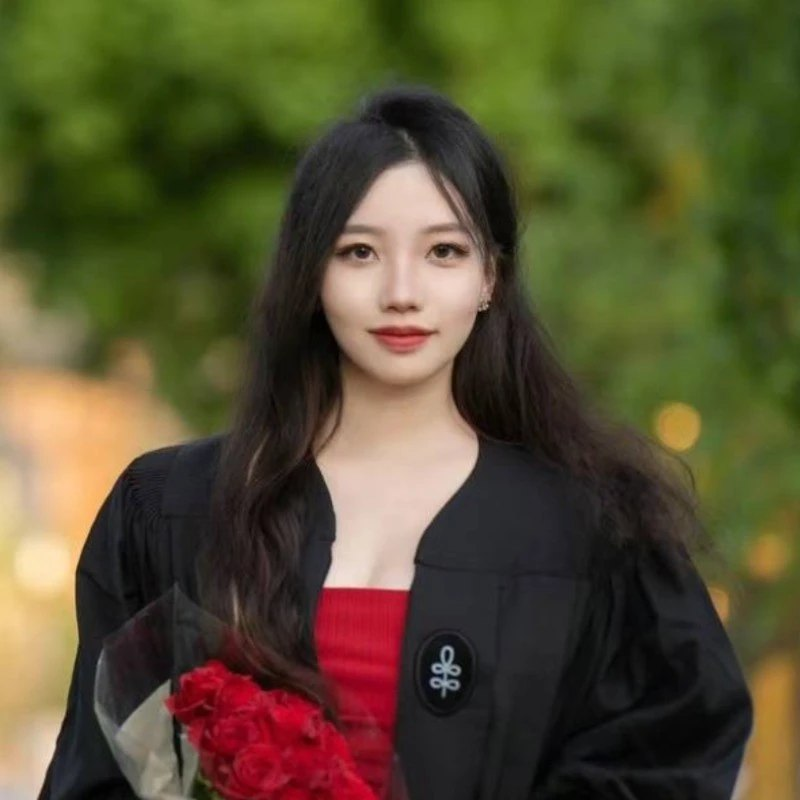
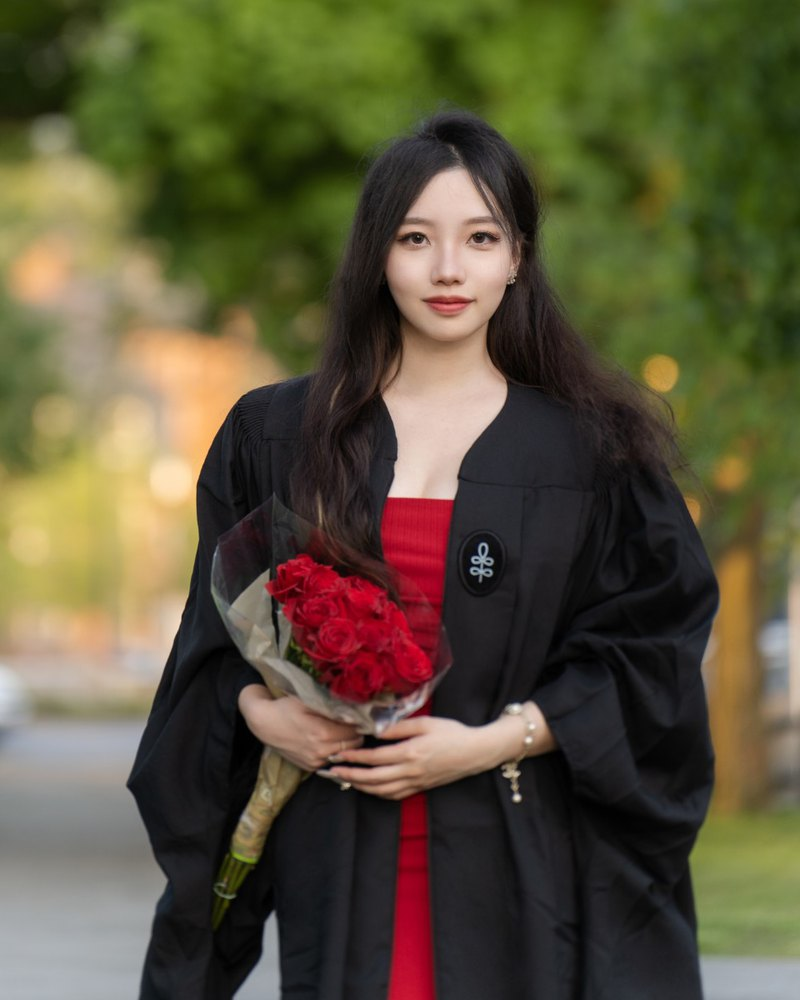
New portrait, smaller opening line, Ideas & Research redesign
- About: new graduation photo, cropped 4:5 for wide screens with a square
  face crop (portrait-face.jpg) for the phone circle; smaller opening line.
- Ideas & Research: themes in a sticky sidebar with counts; the selected
  theme's works on the right, each with its year (from the timeline data),
  tags as chips instead of dotted text, co-author and context notes.
- Paper pages: tags as chips.

diff --git a/assets/css/main.css b/assets/css/main.css
@@ -131,11 +131,11 @@ ul, ol { margin: 0; padding: 0; list-style: none; }
   grid-column: 2; grid-row: 1; display: block; overflow: hidden; aspect-ratio: 4 / 5;
   border-radius: 6px; box-shadow: var(--shadow); background: var(--paper-3);
 }
-.portrait img { width: 100%; height: 100%; object-fit: cover; object-position: 50% 28%; }
+.portrait img { width: 100%; height: 100%; object-fit: cover; object-position: 50% 30%; }
 .opening {
-  font-size: clamp(1.65rem, 1.05rem + 2.2vw, 2.85rem);
-  line-height: 1.16; letter-spacing: -0.012em; font-weight: 350;
-  max-width: 22em; text-wrap: balance;
+  font-size: clamp(1.32rem, 0.98rem + 1.25vw, 2rem);
+  line-height: 1.25; letter-spacing: -0.008em; font-weight: 380;
+  max-width: 28em; text-wrap: balance;
 }
 .about-facts {
   display: grid; grid-template-columns: repeat(2, minmax(0, 1fr)); gap: clamp(20px, 3.4vw, 48px);
@@ -239,49 +239,66 @@ mark.hl {
 }
 
 /* ---------- research index ----------
-   The six themes act as tabs (assets/js/site.js): one theme shows at a time,
-   so the page stays about one screen. Without JS every theme is listed. */
-.theme-index { margin-top: clamp(18px, 2.4vw, 28px); border-top: 1px solid var(--rule-strong); }
-.theme-index ol { display: grid; grid-template-columns: repeat(3, minmax(0, 1fr)); column-gap: 20px; }
-.theme-index a {
-  display: flex; gap: 12px; align-items: baseline; padding: 10px 12px 10px 10px; border-bottom: 1px solid var(--rule);
-  text-decoration: none; font-size: 0.86rem; line-height: 1.35; color: var(--ink-2); transition: color .2s, background-color .2s;
+   Themes in a sticky sidebar (tabs via assets/js/site.js); the selected theme's
+   works on the right, each with its year. Without JS every theme is listed. */
+.research-layout {
+  display: grid; grid-template-columns: minmax(210px, 3fr) minmax(0, 9fr); column-gap: clamp(28px, 4.5vw, 64px);
+  align-items: start; padding-top: clamp(6px, 1vw, 12px);
 }
-.theme-index a:hover { color: var(--accent); }
+.theme-index { position: sticky; top: 88px; }
+.theme-index-label { font-family: var(--sans); font-size: 0.66rem; font-weight: 600; letter-spacing: 0.16em; text-transform: uppercase; color: var(--muted); padding-bottom: 10px; border-bottom: 1px solid var(--rule-strong); }
+.theme-index a {
+  display: grid; grid-template-columns: 1.9em minmax(0, 1fr) auto; gap: 8px; align-items: baseline;
+  padding: 11px 10px 11px 12px; border-bottom: 1px solid var(--rule); text-decoration: none;
+  font-family: var(--sans); font-size: 0.86rem; line-height: 1.35; color: var(--ink-2);
+  transition: color .2s, background-color .2s, box-shadow .2s;
+}
+.theme-index a:hover { color: var(--ink); background: var(--paper-2); }
 .theme-index a[aria-selected="true"] { color: var(--ink); font-weight: 500; background: var(--accent-soft); box-shadow: inset 3px 0 0 var(--accent); }
-.ti-num { font-size: 0.72rem; letter-spacing: 0.1em; color: var(--accent); flex: none; }
-.ti-count { margin-left: auto; font-size: 0.72rem; color: var(--muted); font-variant-numeric: tabular-nums; }
+.ti-num { font-size: 0.72rem; letter-spacing: 0.08em; color: var(--accent); font-variant-numeric: tabular-nums; }
+.ti-count {
+  min-width: 1.6em; text-align: center; font-size: 0.7rem; color: var(--muted); font-variant-numeric: tabular-nums;
+  border: 1px solid var(--rule); border-radius: 999px; padding: 0 6px;
+}
+.theme-index a[aria-selected="true"] .ti-count { color: var(--accent); border-color: color-mix(in srgb, var(--accent) 40%, transparent); }
 .js-tabs .theme:not(.is-active) { display: none; }
 
-.theme {
-  display: grid; grid-template-columns: minmax(0, 4fr) minmax(0, 8fr); column-gap: clamp(24px, 5vw, 72px);
-  padding-top: clamp(20px, 2.8vw, 34px);
+.theme + .theme { margin-top: clamp(28px, 4vw, 44px); }
+.js-tabs .theme + .theme { margin-top: 0; }
+.theme-head {
+  display: flex; flex-wrap: wrap; align-items: baseline; gap: 4px 14px;
+  padding-bottom: 12px; border-bottom: 1px solid var(--rule-strong);
 }
-.theme-head { border-top: 1px solid var(--rule-strong); padding-top: 16px; align-self: start; position: sticky; top: 92px; }
-.theme-num {
-  display: block; font-size: clamp(2.2rem, 1.7rem + 1.6vw, 3.2rem); line-height: 1; font-weight: 300;
-  color: var(--accent); font-variant-numeric: lining-nums; letter-spacing: -0.02em; margin-bottom: 10px;
-}
-.theme-head h2 { font-size: clamp(1.25rem, 1.08rem + 0.6vw, 1.6rem); line-height: 1.18; letter-spacing: -0.005em; max-width: 13em; }
-.entries { border-top: 1px solid var(--rule-strong); }
+.theme-num { font-size: clamp(1.9rem, 1.5rem + 1.2vw, 2.6rem); line-height: 1; font-weight: 320; color: var(--accent); font-variant-numeric: lining-nums; letter-spacing: -0.02em; }
+.theme-head h2 { font-size: clamp(1.25rem, 1.08rem + 0.55vw, 1.6rem); line-height: 1.2; letter-spacing: -0.005em; }
+.theme-count { margin-left: auto; font-family: var(--sans); font-size: 0.7rem; letter-spacing: 0.1em; text-transform: uppercase; color: var(--muted); }
+
 .entries li { border-bottom: 1px solid var(--rule); }
 .entry {
-  display: grid; grid-template-columns: minmax(0, 1fr) auto; gap: 28px; align-items: start;
-  padding: 17px 0 19px; text-decoration: none; color: inherit; position: relative;
+  display: grid; grid-template-columns: 3.4rem minmax(0, 1fr) auto; gap: 6px 22px; align-items: start;
+  padding: 18px 0 19px; text-decoration: none; color: inherit; position: relative;
 }
 .entry::before {
-  content: ""; position: absolute; inset: 0 -14px; background: var(--accent-soft); opacity: 0;
-  transition: opacity .25s ease; border-radius: 2px; pointer-events: none;
+  content: ""; position: absolute; inset: 0 -14px; background: var(--paper-2); opacity: 0;
+  transition: opacity .25s ease; border-radius: 4px; pointer-events: none; z-index: -1;
 }
 .entry:hover::before { opacity: 1; }
-.entry-title { font-size: clamp(1.14rem, 1.02rem + 0.4vw, 1.34rem); line-height: 1.25; letter-spacing: -0.004em; transition: color .2s; text-wrap: pretty; }
+.entry-year { padding-top: 4px; font-family: var(--sans); font-size: 0.78rem; font-weight: 600; letter-spacing: 0.04em; color: var(--accent); font-variant-numeric: tabular-nums; }
+.entry-main { display: block; min-width: 0; }
+.entry-title { display: block; font-size: clamp(1.14rem, 1.02rem + 0.4vw, 1.32rem); line-height: 1.28; letter-spacing: -0.004em; color: var(--ink); transition: color .2s; text-wrap: pretty; }
 .entry:hover .entry-title { color: var(--accent); }
-.entry .tags { margin-top: 7px; }
-.entry-desc { margin-top: 7px; font-size: 0.98rem; line-height: 1.5; color: var(--ink-2); max-width: 40em; }
-.meta { margin-top: 8px; display: flex; flex-wrap: wrap; gap: 4px 18px; font-size: 0.76rem; color: var(--muted); letter-spacing: 0.01em; }
+.entry-desc { display: block; margin-top: 6px; font-size: 0.98rem; line-height: 1.5; color: var(--ink-2); max-width: 42em; }
+.entry-foot { display: flex; flex-wrap: wrap; align-items: center; gap: 8px 14px; margin-top: 11px; }
+.chips { display: inline-flex; flex-wrap: wrap; gap: 6px; }
+.chip {
+  display: inline-block; padding: 2px 9px; border-radius: 999px; background: var(--paper-2); border: 1px solid var(--rule);
+  font-family: var(--sans); font-size: 0.72rem; line-height: 1.5; color: var(--ink-2); white-space: nowrap;
+}
+.entry:hover .chip { background: var(--paper); }
+.meta-item { font-family: var(--sans); font-size: 0.75rem; color: var(--muted); }
 .entry-action {
-  display: inline-flex; align-items: center; gap: 8px; padding-top: 6px;
-  font-size: 0.72rem; font-weight: 600; letter-spacing: 0.16em; text-transform: uppercase; color: var(--ink);
+  display: inline-flex; align-items: center; gap: 8px; padding-top: 5px;
+  font-family: var(--sans); font-size: 0.7rem; font-weight: 600; letter-spacing: 0.16em; text-transform: uppercase; color: var(--ink);
 }
 .entry-action svg { transition: transform .25s ease; }
 .entry:hover .entry-action { color: var(--accent); }
@@ -301,7 +318,7 @@ mark.hl {
   margin-top: 10px; font-size: clamp(1.7rem, 1.2rem + 1.8vw, 2.55rem); line-height: 1.12; letter-spacing: -0.015em; font-weight: 360;
   text-wrap: balance;
 }
-.paper-head .tags { margin-top: 12px; }
+.paper-head .chips { margin-top: 14px; }
 .paper-desc { margin-top: 10px; font-size: clamp(1.02rem, 0.96rem + 0.3vw, 1.16rem); line-height: 1.5; color: var(--ink-2); max-width: 38em; }
 .paper-meta { margin: 12px 0 0; display: grid; gap: 3px; }
 .paper-meta div { display: flex; flex-wrap: wrap; gap: 2px 14px; align-items: baseline; }
@@ -376,11 +393,9 @@ mark.hl {
 /* ---------- tablet ---------- */
 @media (max-width: 960px) {
   .timeline, .tl-cols { --tl-year: 3.6rem; --tl-gap: 30px; --tl-cols: var(--tl-year) minmax(0, 1fr) minmax(0, 1fr); }
-  .theme-index ol { grid-template-columns: repeat(2, minmax(0, 1fr)); }
-  .theme { grid-template-columns: 1fr; }
-  .theme-head { position: static; display: flex; align-items: baseline; gap: 18px; padding-bottom: 6px; border-top: 0; }
-  .theme-num { margin-bottom: 0; font-size: 2.6rem; }
-  .theme-head h2 { max-width: none; }
+  .research-layout { grid-template-columns: minmax(0, 1fr); row-gap: 22px; }
+  .theme-index { position: static; }
+  .theme-index ol { display: grid; grid-template-columns: repeat(2, minmax(0, 1fr)); column-gap: 16px; }
   .shot, .shot-w { grid-column: span 6; }
   .shot-l { grid-column: span 12; }
 }
@@ -410,8 +425,7 @@ mark.hl {
 
   .about-hero.has-photo { display: block; }
   .portrait { width: 100px; aspect-ratio: 1; border-radius: 50%; margin-bottom: 16px; }
-  /* zoom toward the face for the small circle */
-  .portrait img { width: 165%; height: auto; max-width: none; margin: -6% 0 0 -32.5%; object-fit: initial; }
+  .portrait img { object-position: 50% 20%; }  /* portrait-face.jpg is used here when present */
   .about-facts { grid-template-columns: 1fr; gap: 18px; }
   .tl-cols { display: none; }
   .timeline { --tl-year: 0px; --tl-gap: 26px; }
@@ -427,11 +441,12 @@ mark.hl {
   .tl-lane-label { display: block; margin: 2px 0 2px; font-family: var(--sans); font-size: 0.6rem; font-weight: 600; letter-spacing: 0.14em; text-transform: uppercase; color: var(--muted); }
 
   .theme-index ol { grid-template-columns: 1fr; }
-  .theme-head { gap: 14px; }
-  .theme-num { font-size: 2.1rem; }
-  .entry { grid-template-columns: 1fr; gap: 14px; padding: 22px 0 24px; }
+  .theme-index a { padding: 10px 8px 10px 10px; }
+  .theme-count { margin-left: 0; width: 100%; }
+  .entry { grid-template-columns: minmax(0, 1fr); gap: 6px; padding: 16px 0 18px; }
+  .entry-year { padding-top: 0; }
   .entry::before { inset: 0 -10px; }
-  .entry-action { padding-top: 0; }
+  .entry-action { padding-top: 4px; }
 
   .paper-meta dt { min-width: 0; width: 100%; }
   .actions .btn { flex: 1 1 auto; justify-content: center; }

diff --git a/research.html b/research.html
@@ -8,7 +8,16 @@ description: Research and writing on institutions, opportunity, decision-making,
 <header class="wrap page-head">
   <h1 class="page-title">Ideas &amp; Research</h1>
   <p class="page-intro">My work examines institutions, opportunity, decision-making, and human outcomes across political systems, education, technology, and social change.</p>
+</header>
+
+{%- comment -%}
+  Left: the six themes (tabs, see assets/js/site.js). Right: the works of the
+  selected theme, in her order. Without JS every theme is listed in turn.
+  Years come from _data/timeline.yml so this page and the About timeline agree.
+{%- endcomment -%}
+<div class="wrap research-layout">
   <nav class="theme-index" aria-label="Themes">
+    <p class="theme-index-label">Themes</p>
     <ol>
       {% for t in site.data.themes %}
       {% assign n = site.research | where: "theme", t.id | size %}
@@ -16,34 +25,38 @@ description: Research and writing on institutions, opportunity, decision-making,
       {% endfor %}
     </ol>
   </nav>
-</header>
 
-{% for t in site.data.themes %}
-{% assign items = site.research | where: "theme", t.id | sort: "order" %}
-<section class="wrap theme" id="theme-{{ t.id }}" aria-labelledby="theme-{{ t.id }}-h">
-  <header class="theme-head">
-    <span class="theme-num" aria-hidden="true">{{ t.id }}</span>
-    <h2 id="theme-{{ t.id }}-h">{{ t.title }}</h2>
-  </header>
-  <ol class="entries">
-    {% for p in items %}
-    <li>
-      <a class="entry" href="{{ p.url | relative_url }}">
-        <div class="entry-main">
-          <h3 class="entry-title">{{ p.title }}</h3>
-          <p class="tags">{{ p.tags | join: " · " }}</p>
-          <p class="entry-desc">{{ p.description }}</p>
-          {% if p.credit or p.context %}
-          <p class="meta">
-            {% if p.credit %}<span>{{ p.credit }}</span>{% endif %}
-            {% if p.context %}<span>Academic context: {{ p.context.name }} · {{ p.context.institution }}</span>{% endif %}
-          </p>
-          {% endif %}
-        </div>
-        <span class="entry-action" aria-hidden="true">{% if p.external %}View{% else %}Read{% endif %}<svg viewBox="0 0 16 16" width="14" height="14"><path d="M3 8h9M8.5 4.5 12 8l-3.5 3.5" fill="none" stroke="currentColor" stroke-width="1.4"/></svg></span>
-      </a>
-    </li>
+  <div class="theme-panels">
+    {% for t in site.data.themes %}
+    {% assign items = site.research | where: "theme", t.id | sort: "order" %}
+    <section class="theme" id="theme-{{ t.id }}" aria-labelledby="theme-{{ t.id }}-h">
+      <header class="theme-head">
+        <span class="theme-num" aria-hidden="true">{{ t.id }}</span>
+        <h2 id="theme-{{ t.id }}-h">{{ t.title }}</h2>
+        <span class="theme-count">{{ items.size }} {% if items.size == 1 %}work{% else %}works{% endif %}</span>
+      </header>
+      <ol class="entries">
+        {% for p in items %}
+        {% assign yr = "" %}
+        {% for g in site.data.timeline %}{% if g.papers contains p.slug %}{% assign yr = g.year | default: g.label %}{% endif %}{% endfor %}
+        <li>
+          <a class="entry" href="{{ p.url | relative_url }}">
+            <span class="entry-year">{{ yr }}</span>
+            <span class="entry-main">
+              <span class="entry-title">{{ p.title }}</span>
+              <span class="entry-desc">{{ p.description }}</span>
+              <span class="entry-foot">
+                <span class="chips">{% for tag in p.tags %}<span class="chip">{{ tag }}</span>{% endfor %}</span>
+                {% if p.credit %}<span class="meta-item">{{ p.credit }}</span>{% endif %}
+                {% if p.context %}<span class="meta-item">Academic context: {{ p.context.name }}, {{ p.context.institution }}</span>{% endif %}
+              </span>
+            </span>
+            <span class="entry-action" aria-hidden="true">{% if p.external %}View{% else %}Read{% endif %}<svg viewBox="0 0 16 16" width="14" height="14"><path d="M3 8h9M8.5 4.5 12 8l-3.5 3.5" fill="none" stroke="currentColor" stroke-width="1.4"/></svg></span>
+          </a>
+        </li>
+        {% endfor %}
+      </ol>
+    </section>
     {% endfor %}
-  </ol>
-</section>
-{% endfor %}
+  </div>
+</div>

diff --git a/index.html b/index.html
@@ -3,9 +3,13 @@ layout: default
 slug_class: about
 ---
 {% assign portrait = site.static_files | where_exp: "f", "f.path contains '/assets/img/portrait.'" | first %}
+{% assign portrait_face = site.static_files | where_exp: "f", "f.path contains '/assets/img/portrait-face.'" | first %}
 <section class="wrap about-hero{% if portrait %} has-photo{% endif %}">
   {% if portrait %}
-  <span class="portrait"><img src="{{ portrait.path | relative_url }}" alt="Jiadi He" width="800" height="800"></span>
+  <picture class="portrait">
+    {% if portrait_face %}<source media="(max-width: 680px)" srcset="{{ portrait_face.path | relative_url }}">{% endif %}
+    <img src="{{ portrait.path | relative_url }}" alt="Jiadi He" width="800" height="1000">
+  </picture>
   {% endif %}
   <div class="about-text">
     <p class="opening">My work sits across <mark class="hl">education, policy, business, and public institutions</mark>, shaped by both academic training and <span class="nowrap">hands-on</span> institution building.</p>

diff --git a/_layouts/paper.html b/_layouts/paper.html
@@ -12,13 +12,13 @@ slug_class: paper
   <header class="paper-head">
     <p class="category"><span>{{ theme.id }}</span>{{ theme.title }}</p>
     <h1 class="paper-title">{{ page.title }}</h1>
-    <p class="tags">{{ page.tags | join: " · " }}</p>
+    <p class="chips">{% for tag in page.tags %}<span class="chip">{{ tag }}</span>{% endfor %}</p>
     <p class="paper-desc">{{ page.description }}</p>
     {% if page.authors or page.credit or page.context %}
     <dl class="paper-meta">
       {% if page.authors %}<div><dt>Authors</dt><dd>{{ page.authors | join: ", " }}</dd></div>{% endif %}
       {% if page.credit %}<div><dt>Format</dt><dd>{{ page.credit }}</dd></div>{% endif %}
-      {% if page.context %}<div><dt>Academic context</dt><dd>{{ page.context.name }} · {{ page.context.institution }}</dd></div>{% endif %}
+      {% if page.context %}<div><dt>Academic context</dt><dd>{{ page.context.name }}, {{ page.context.institution }}</dd></div>{% endif %}
     </dl>
     {% endif %}
     <div class="actions">

diff --git a/assets/js/site.js b/assets/js/site.js
@@ -61,6 +61,7 @@
    browser's jump and push the target down, so jump again once they are ready. */
 (function () {
   if (!location.hash || !document.fonts || !document.fonts.ready) return;
+  if (/^#theme-\d+$/.test(location.hash) && document.querySelector(".theme-index")) return; /* tabs handle these */
   var target = document.getElementById(decodeURIComponent(location.hash.slice(1)));
   if (!target) return;
   document.fonts.ready.then(function () {

diff --git a/README.md b/README.md
@@ -12,7 +12,7 @@ PDF inline with an "Open PDF" button.
 | --- | --- |
 | About page text | `index.html` |
 | About timeline, newest first: per year an Education & Roles lane and a Papers lane (dated photos join automatically) | `_data/timeline.yml` |
-| Portrait on About | `assets/img/portrait.jpg` (appears automatically when the file exists) |
+| Portrait on About | `assets/img/portrait.jpg` (4:5) and optional `portrait-face.jpg` (square, used in the phone circle); both appear automatically |
 | Email and LinkedIn | `_config.yml` (`email:`, `linkedin:`) |
 | The six research themes | `_data/themes.yml` |
 | One research entry (title, tags, description, context, PDF) | `_research/<slug>.md` |
